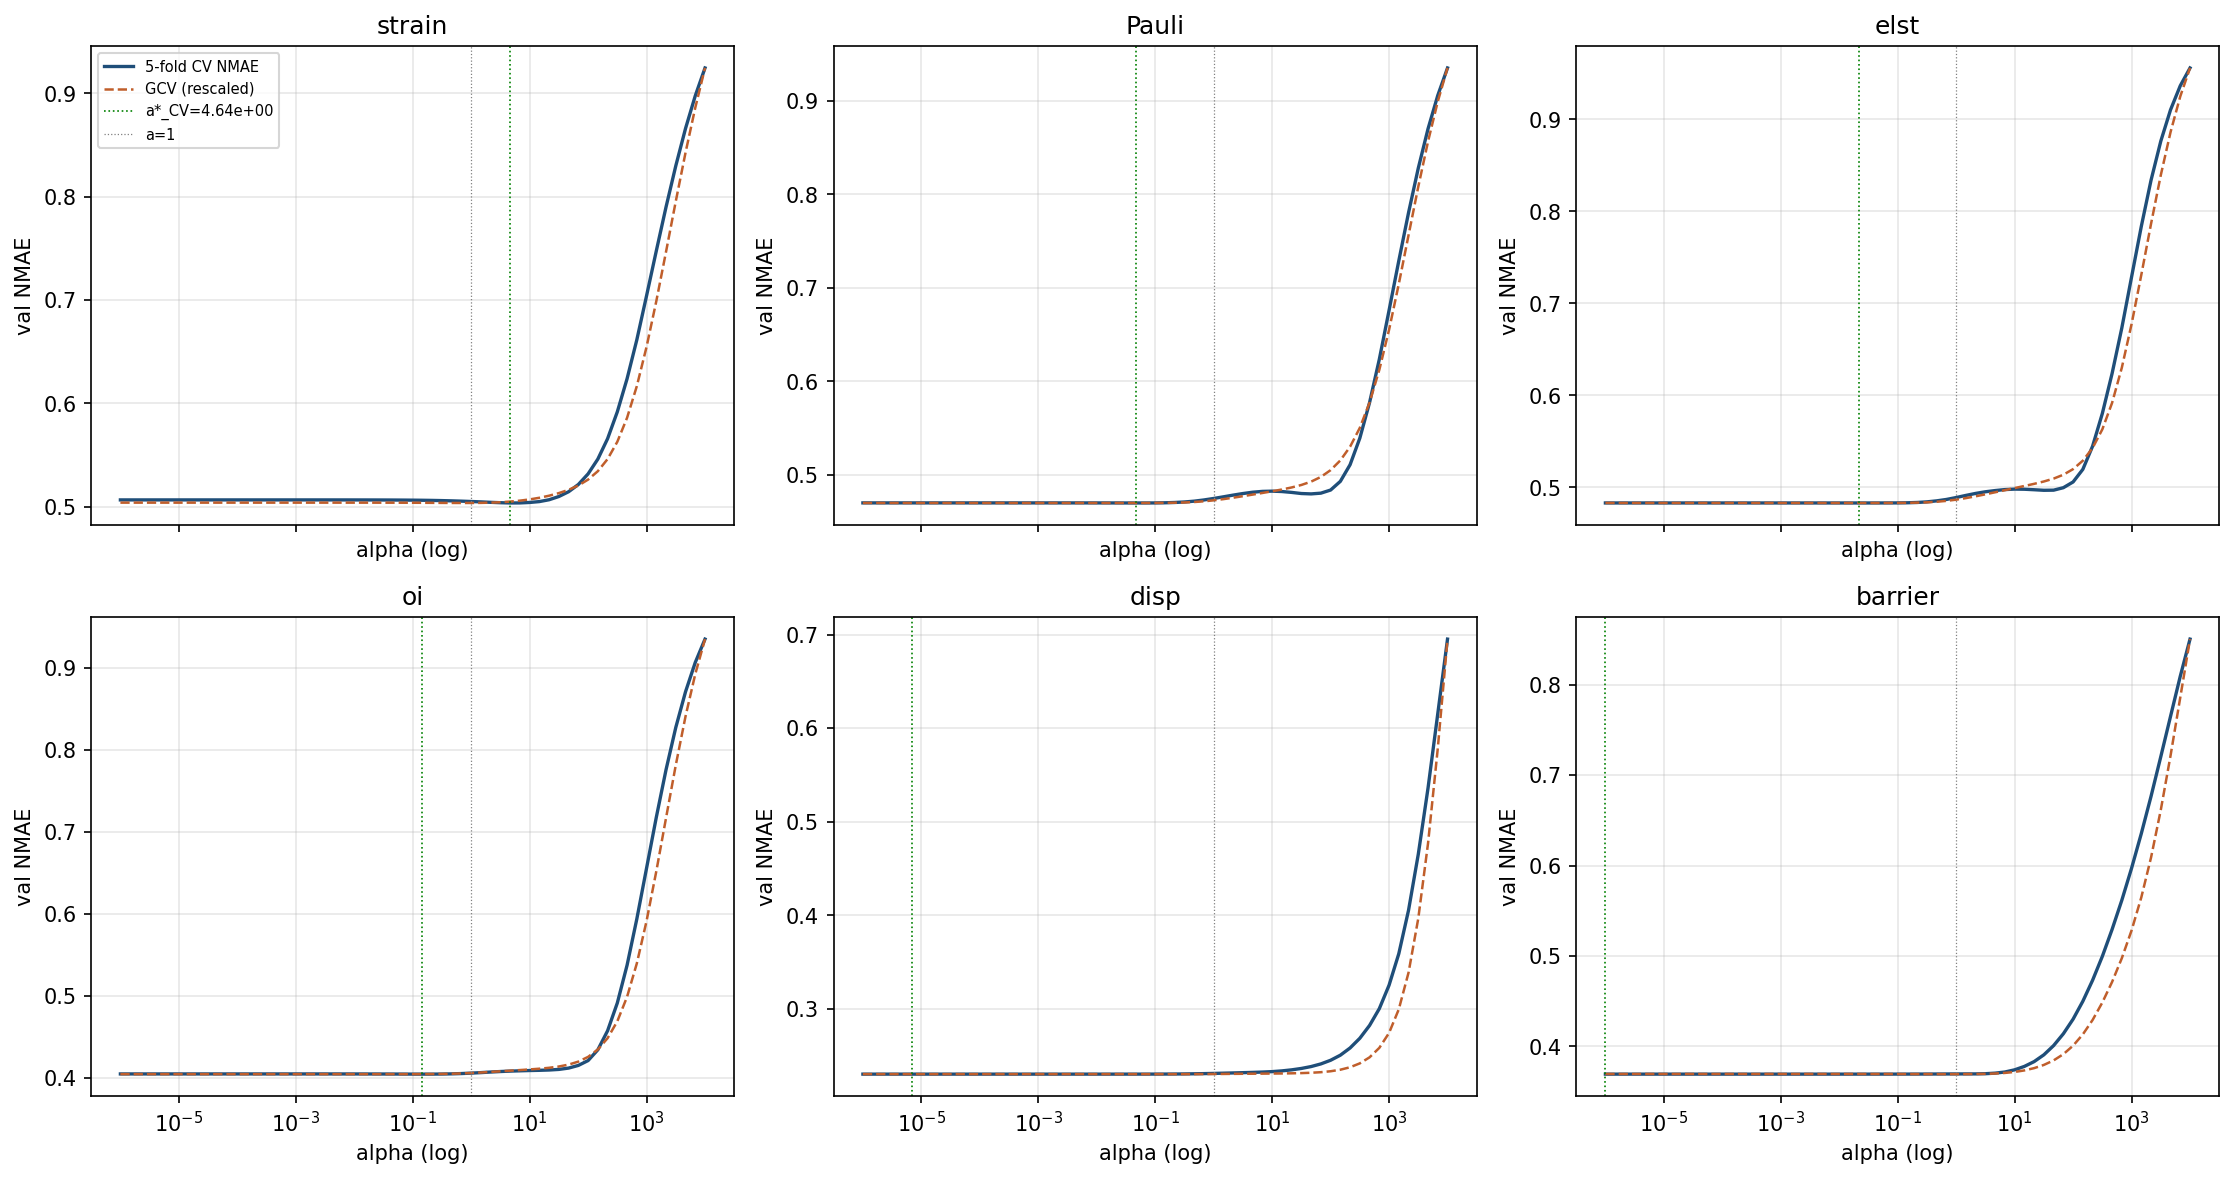
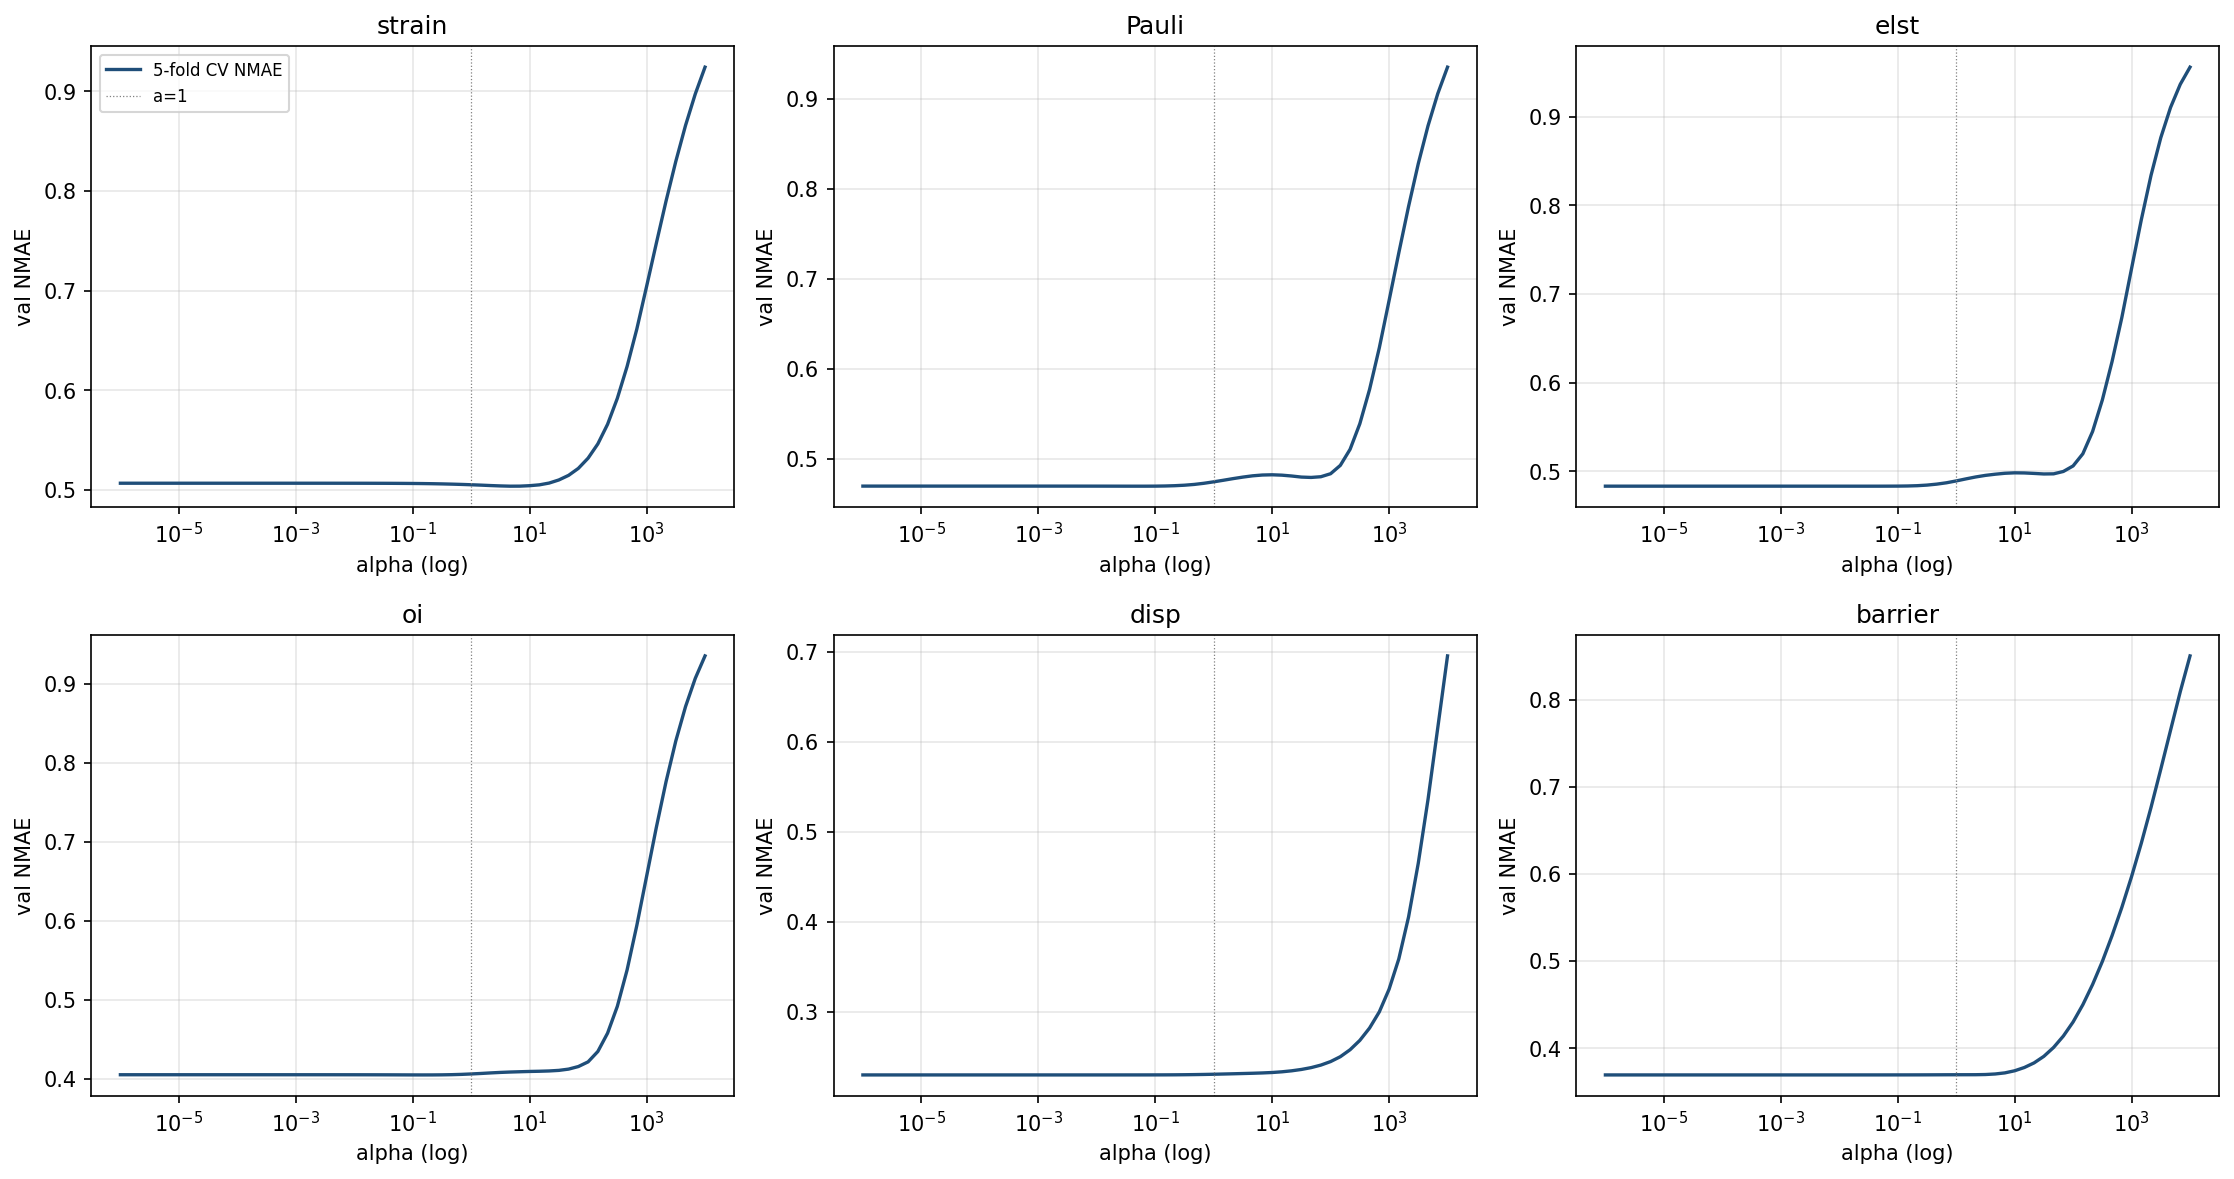
Clean up rmse_bar (split-disp axis) + alpha_curves (drop GCV/a*_CV, x-ticks per subplot)
- comparison/v9 rmse_bar.png: split disp onto its own y-axis panel so
  the ~1.7-2 kcal/mol bars are readable next to Pauli's ~78 kcal/mol.
  Preserves natural channel order via 3-panel gridspec.
- spec01_alpha alpha_curves.png: remove rescaled GCV overlay and the
  a*_CV vertical line (green + "4.64e+00" label); keep only 5-fold CV
  curve + a=1 reference. Enable x-tick labels on all 6 subplots.

diff --git a/scripts/v9_ml/aggregate_m123_v9.py b/scripts/v9_ml/aggregate_m123_v9.py
@@ -97,6 +97,45 @@ def bar_plot(per_cell_df, metric, ylabel, path, ymean_hline=None):
     print(f"[fig] {path}")
 
 
+def bar_plot_split_disp(per_cell_df, metric, ylabel, path):
+    """Bar plot with `disp` isolated on its own y-axis panel.
+
+    Layout preserves channel order [strain, Pauli, Velst, oi | disp | barrier]
+    across 3 subplots. `disp` gets its own y-scale because its RMSE is
+    ~40x smaller than Pauli/Velst and would otherwise be invisible.
+    """
+    groups = [
+        ["strain", "Pauli", "Velst", "oi"],
+        ["disp"],
+        ["barrier"],
+    ]
+    fig, axes = plt.subplots(
+        1, 3, figsize=(12, 5.5),
+        gridspec_kw={"width_ratios": [len(g) for g in groups], "wspace": 0.28},
+    )
+    w = 0.27
+    for ax, chans in zip(axes, groups):
+        x = np.arange(len(chans))
+        for i, (name, _, color) in enumerate(MODELS):
+            means, stds = [], []
+            for ch in chans:
+                sub = per_cell_df[(per_cell_df.model == name) & (per_cell_df.channel == ch)]
+                means.append(sub[metric].mean() if len(sub) else np.nan)
+                stds.append(sub[metric].std() if len(sub) else 0)
+            ax.bar(x + (i - 1) * w, means, w, yerr=stds, label=name,
+                   color=color, capsize=3, edgecolor="white", linewidth=0.4)
+        ax.set_xticks(x)
+        ax.set_xticklabels(chans)
+        ax.grid(alpha=0.25, axis="y")
+    axes[0].set_ylabel(ylabel)
+    axes[1].set_title("(independent y-scale)", fontsize=9, color="gray")
+    axes[0].legend(loc="upper right", framealpha=0.9)
+    fig.tight_layout()
+    fig.savefig(path, dpi=160)
+    plt.close(fig)
+    print(f"[fig] {path}")
+
+
 def parity_grid(all_cells, path):
     fig, axes = plt.subplots(len(MODELS), len(CHANNELS_BAR),
                              figsize=(3.4 * len(CHANNELS_BAR), 3.2 * len(MODELS)))
@@ -229,7 +268,7 @@ def main():
 
     bar_plot(df, "NMAE", "NMAE = MAE / MAD(y_true)",
              FIG / "nmae_bar.png", ymean_hline=1.0)
-    bar_plot(df, "RMSE", "RMSE (kcal/mol)", FIG / "rmse_bar.png")
+    bar_plot_split_disp(df, "RMSE", "RMSE (kcal/mol)", FIG / "rmse_bar.png")
     parity_grid(all_cells, FIG / "parity_grid.png")
     write_readme(summary, counts)
 

diff --git a/spec/spec01_alpha/code/spec01_alpha.py b/spec/spec01_alpha/code/spec01_alpha.py
@@ -206,23 +206,18 @@ def main():
 
     # ============================ Fig 1: alpha curves ==========================
     channels_plot = CHANNELS + ["barrier"]
-    fig, axes = plt.subplots(2, 3, figsize=(15, 8), sharex=True)
+    fig, axes = plt.subplots(2, 3, figsize=(15, 8))
     for ax, ch in zip(axes.flat, channels_plot):
-        cv_c = curves[ch]["cv"]; gcv_c = curves[ch]["gcv"]
-        # Normalize GCV to match NMAE scale visually: rescale to [min, 1] mapping cv range
-        gcv_norm = (gcv_c - gcv_c.min()) / (gcv_c.max() - gcv_c.min() + 1e-12)
-        gcv_norm = gcv_norm * (cv_c.max() - cv_c.min()) + cv_c.min()
+        cv_c = curves[ch]["cv"]
         ax.plot(alphas, cv_c, "-", color=NAVY, lw=1.6, label="5-fold CV NMAE")
-        ax.plot(alphas, gcv_norm, "--", color="#c05e2b", lw=1.2, label="GCV (rescaled)")
-        a_star = alphas[cv_c.argmin()]
-        ax.axvline(a_star, color="green", lw=0.8, ls=":", label=f"a*_CV={a_star:.2e}")
         ax.axvline(1.0, color="gray", lw=0.6, ls=":", label="a=1")
         ax.set_xscale("log")
         ax.set_title(ch); ax.grid(alpha=0.3)
         ax.set_xlabel("alpha (log)")
         ax.set_ylabel("val NMAE")
+        ax.tick_params(axis="x", labelbottom=True)
         if ch == channels_plot[0]:
-            ax.legend(fontsize=7, loc="upper left")
+            ax.legend(fontsize=8, loc="upper left")
     fig.tight_layout()
     fig.savefig(OUT_FIG / "alpha_curves.png", dpi=150, bbox_inches="tight")
     plt.close(fig)